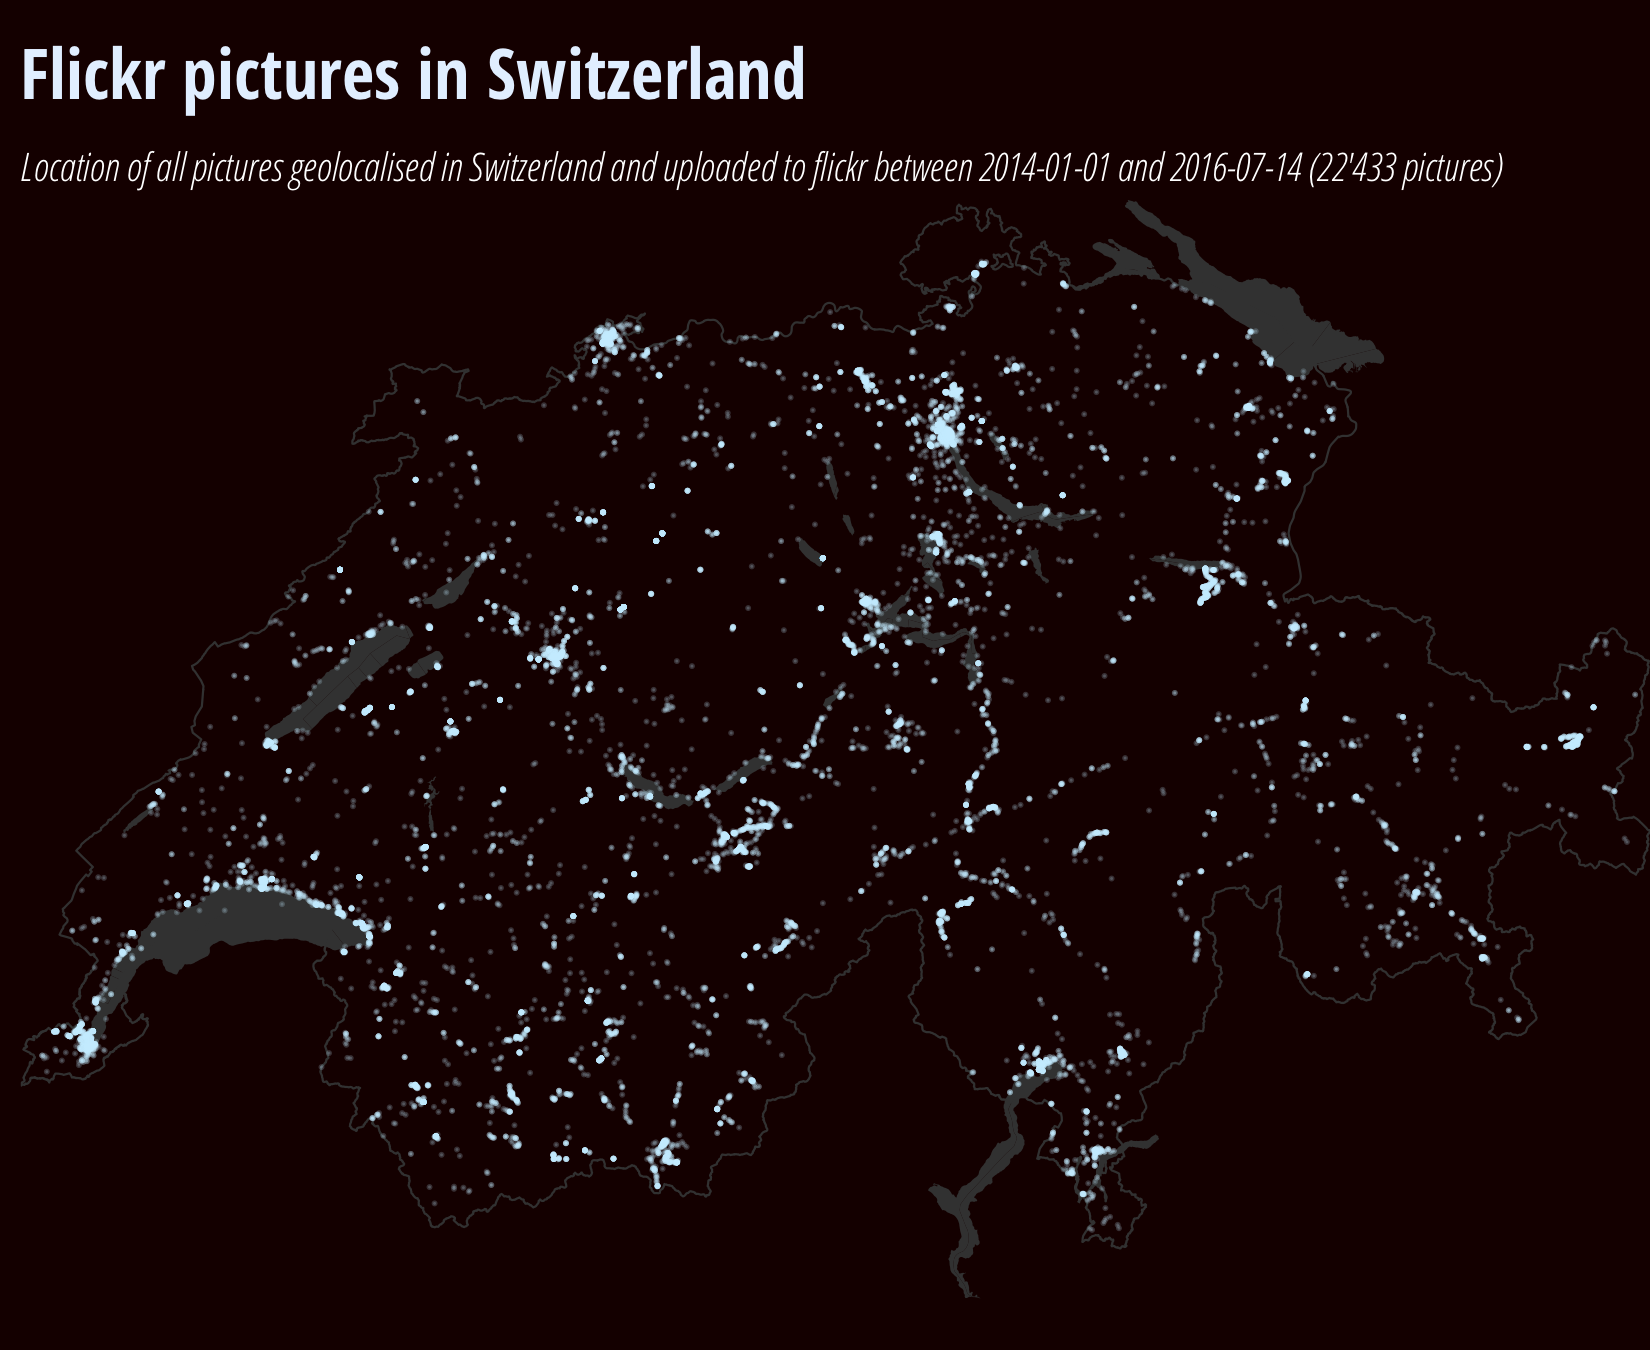
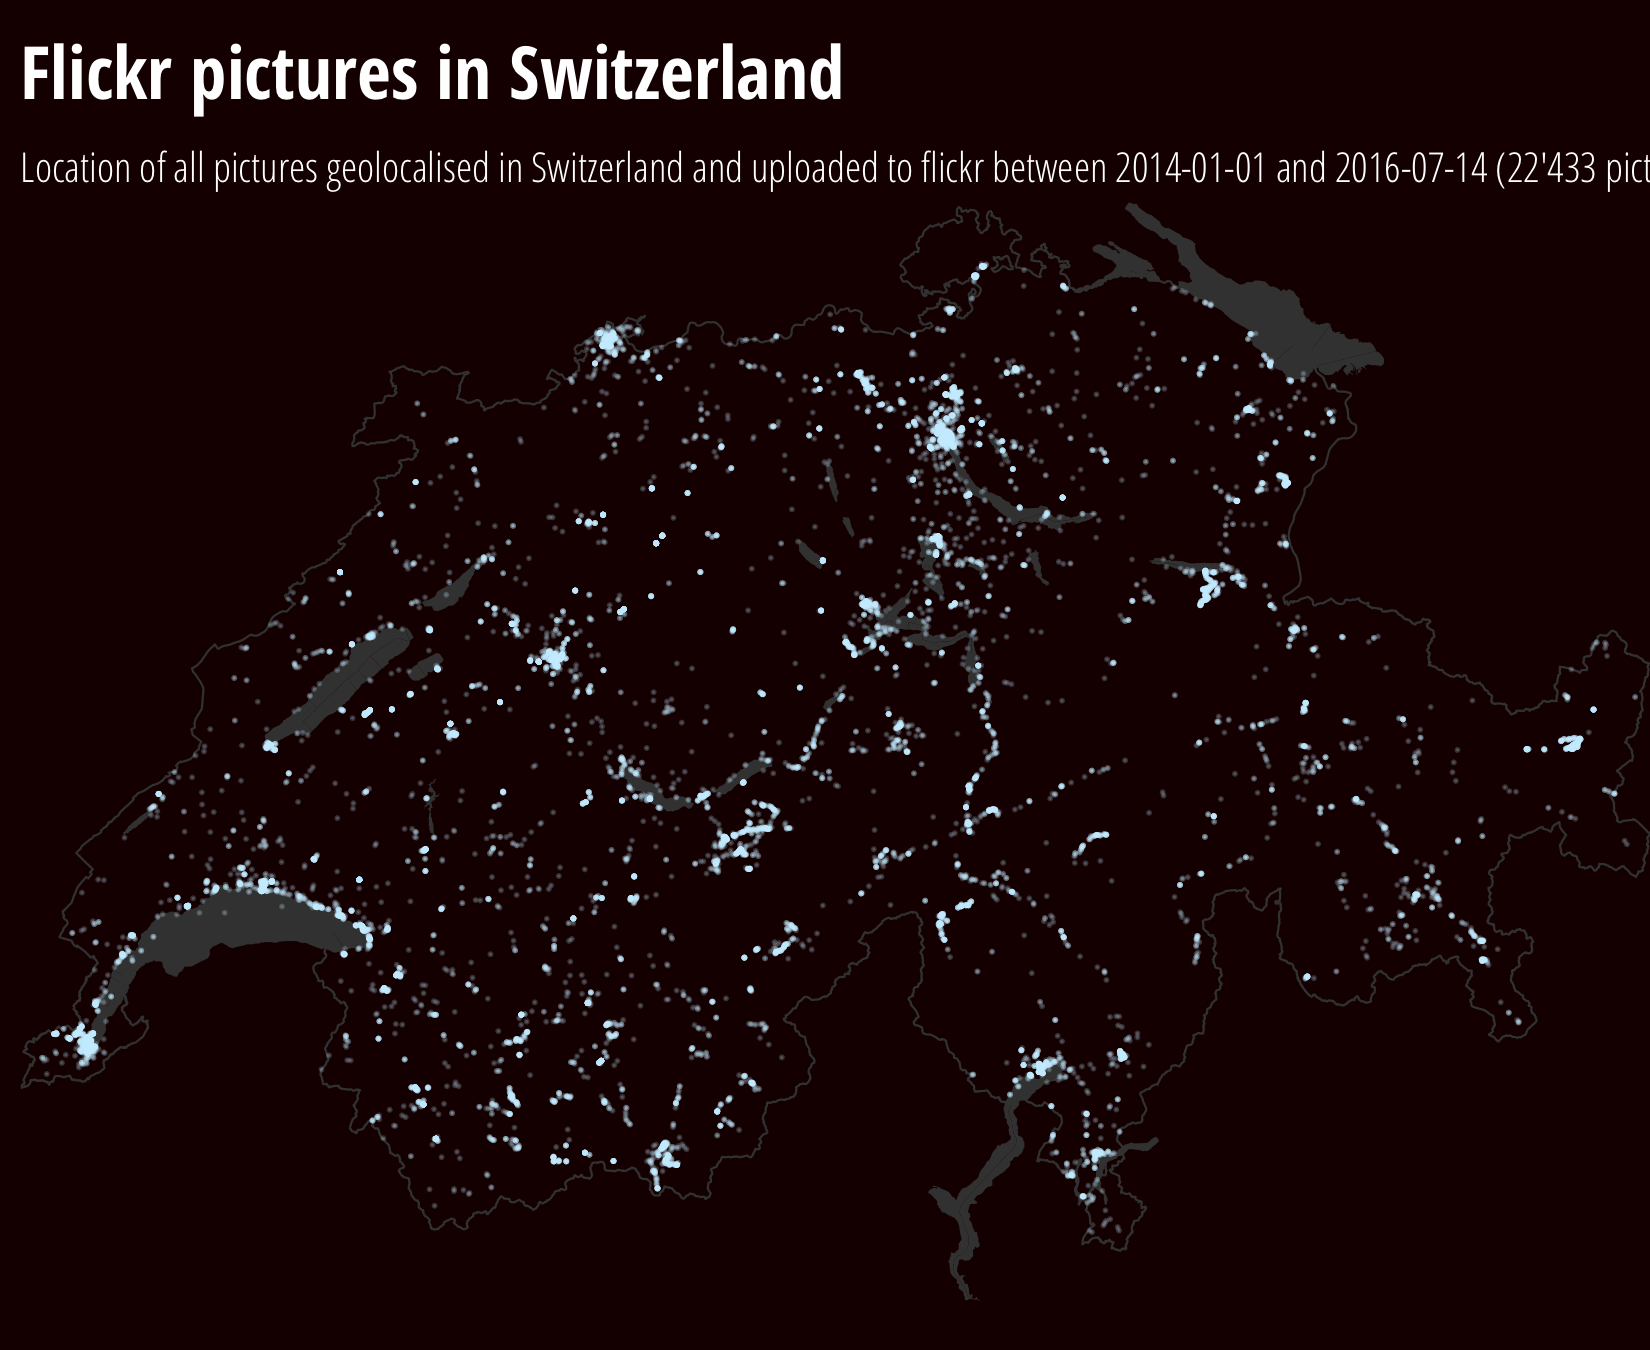
Better layout (larger)

diff --git a/01_map_flickr_EN.html b/01_map_flickr_EN.html
@@ -4,13 +4,12 @@
 <meta charset="utf-8"/>
 
   <link href='https://fonts.googleapis.com/css?family=Open+Sans+Condensed:300&subset=latin,cyrillic' rel='stylesheet' type='text/css'>
-<link href='https://fonts.googleapis.com/css?family=Open+Sans:400,300,600,700,800,400italic&subset=latin,cyrillic' rel='stylesheet' type='text/css'>
 <style>
 
 body, h1, h2, h3, h4, h5, h6, .descr, td, table {
    text-rendering: optimizeLegibility;
    font-smoothing: antialiased;
-   font-family: 'Open Sans', sans-serif;
+   font-family: 'Open Sans Condensed', sans-serif;
    background-color: white;
    font-size: 12px;
    margin:3px 4px 3px 5px;
@@ -28,7 +27,7 @@ img {
 #cite a { text-decoration: none; color: #821122; }
 
 #footer {
-  font-size: 0.8em; 
+  font-size: 1em; 
   color: #9B9B9B; 
   padding: 0px;
   margin-left:3%;    

diff --git a/styles.html b/styles.html
@@ -1,11 +1,10 @@
 <link href='https://fonts.googleapis.com/css?family=Open+Sans+Condensed:300&subset=latin,cyrillic' rel='stylesheet' type='text/css'>
-<link href='https://fonts.googleapis.com/css?family=Open+Sans:400,300,600,700,800,400italic&subset=latin,cyrillic' rel='stylesheet' type='text/css'>
 <style>
 
 body, h1, h2, h3, h4, h5, h6, .descr, td, table {
    text-rendering: optimizeLegibility;
    font-smoothing: antialiased;
-   font-family: 'Open Sans', sans-serif;
+   font-family: 'Open Sans Condensed', sans-serif;
    background-color: white;
    font-size: 12px;
    margin:3px 4px 3px 5px;
@@ -23,7 +22,7 @@ img {
 #cite a { text-decoration: none; color: #821122; }
 
 #footer {
-  font-size: 0.8em; 
+  font-size: 1em; 
   color: #9B9B9B; 
   padding: 0px;
   margin-left:3%;    
